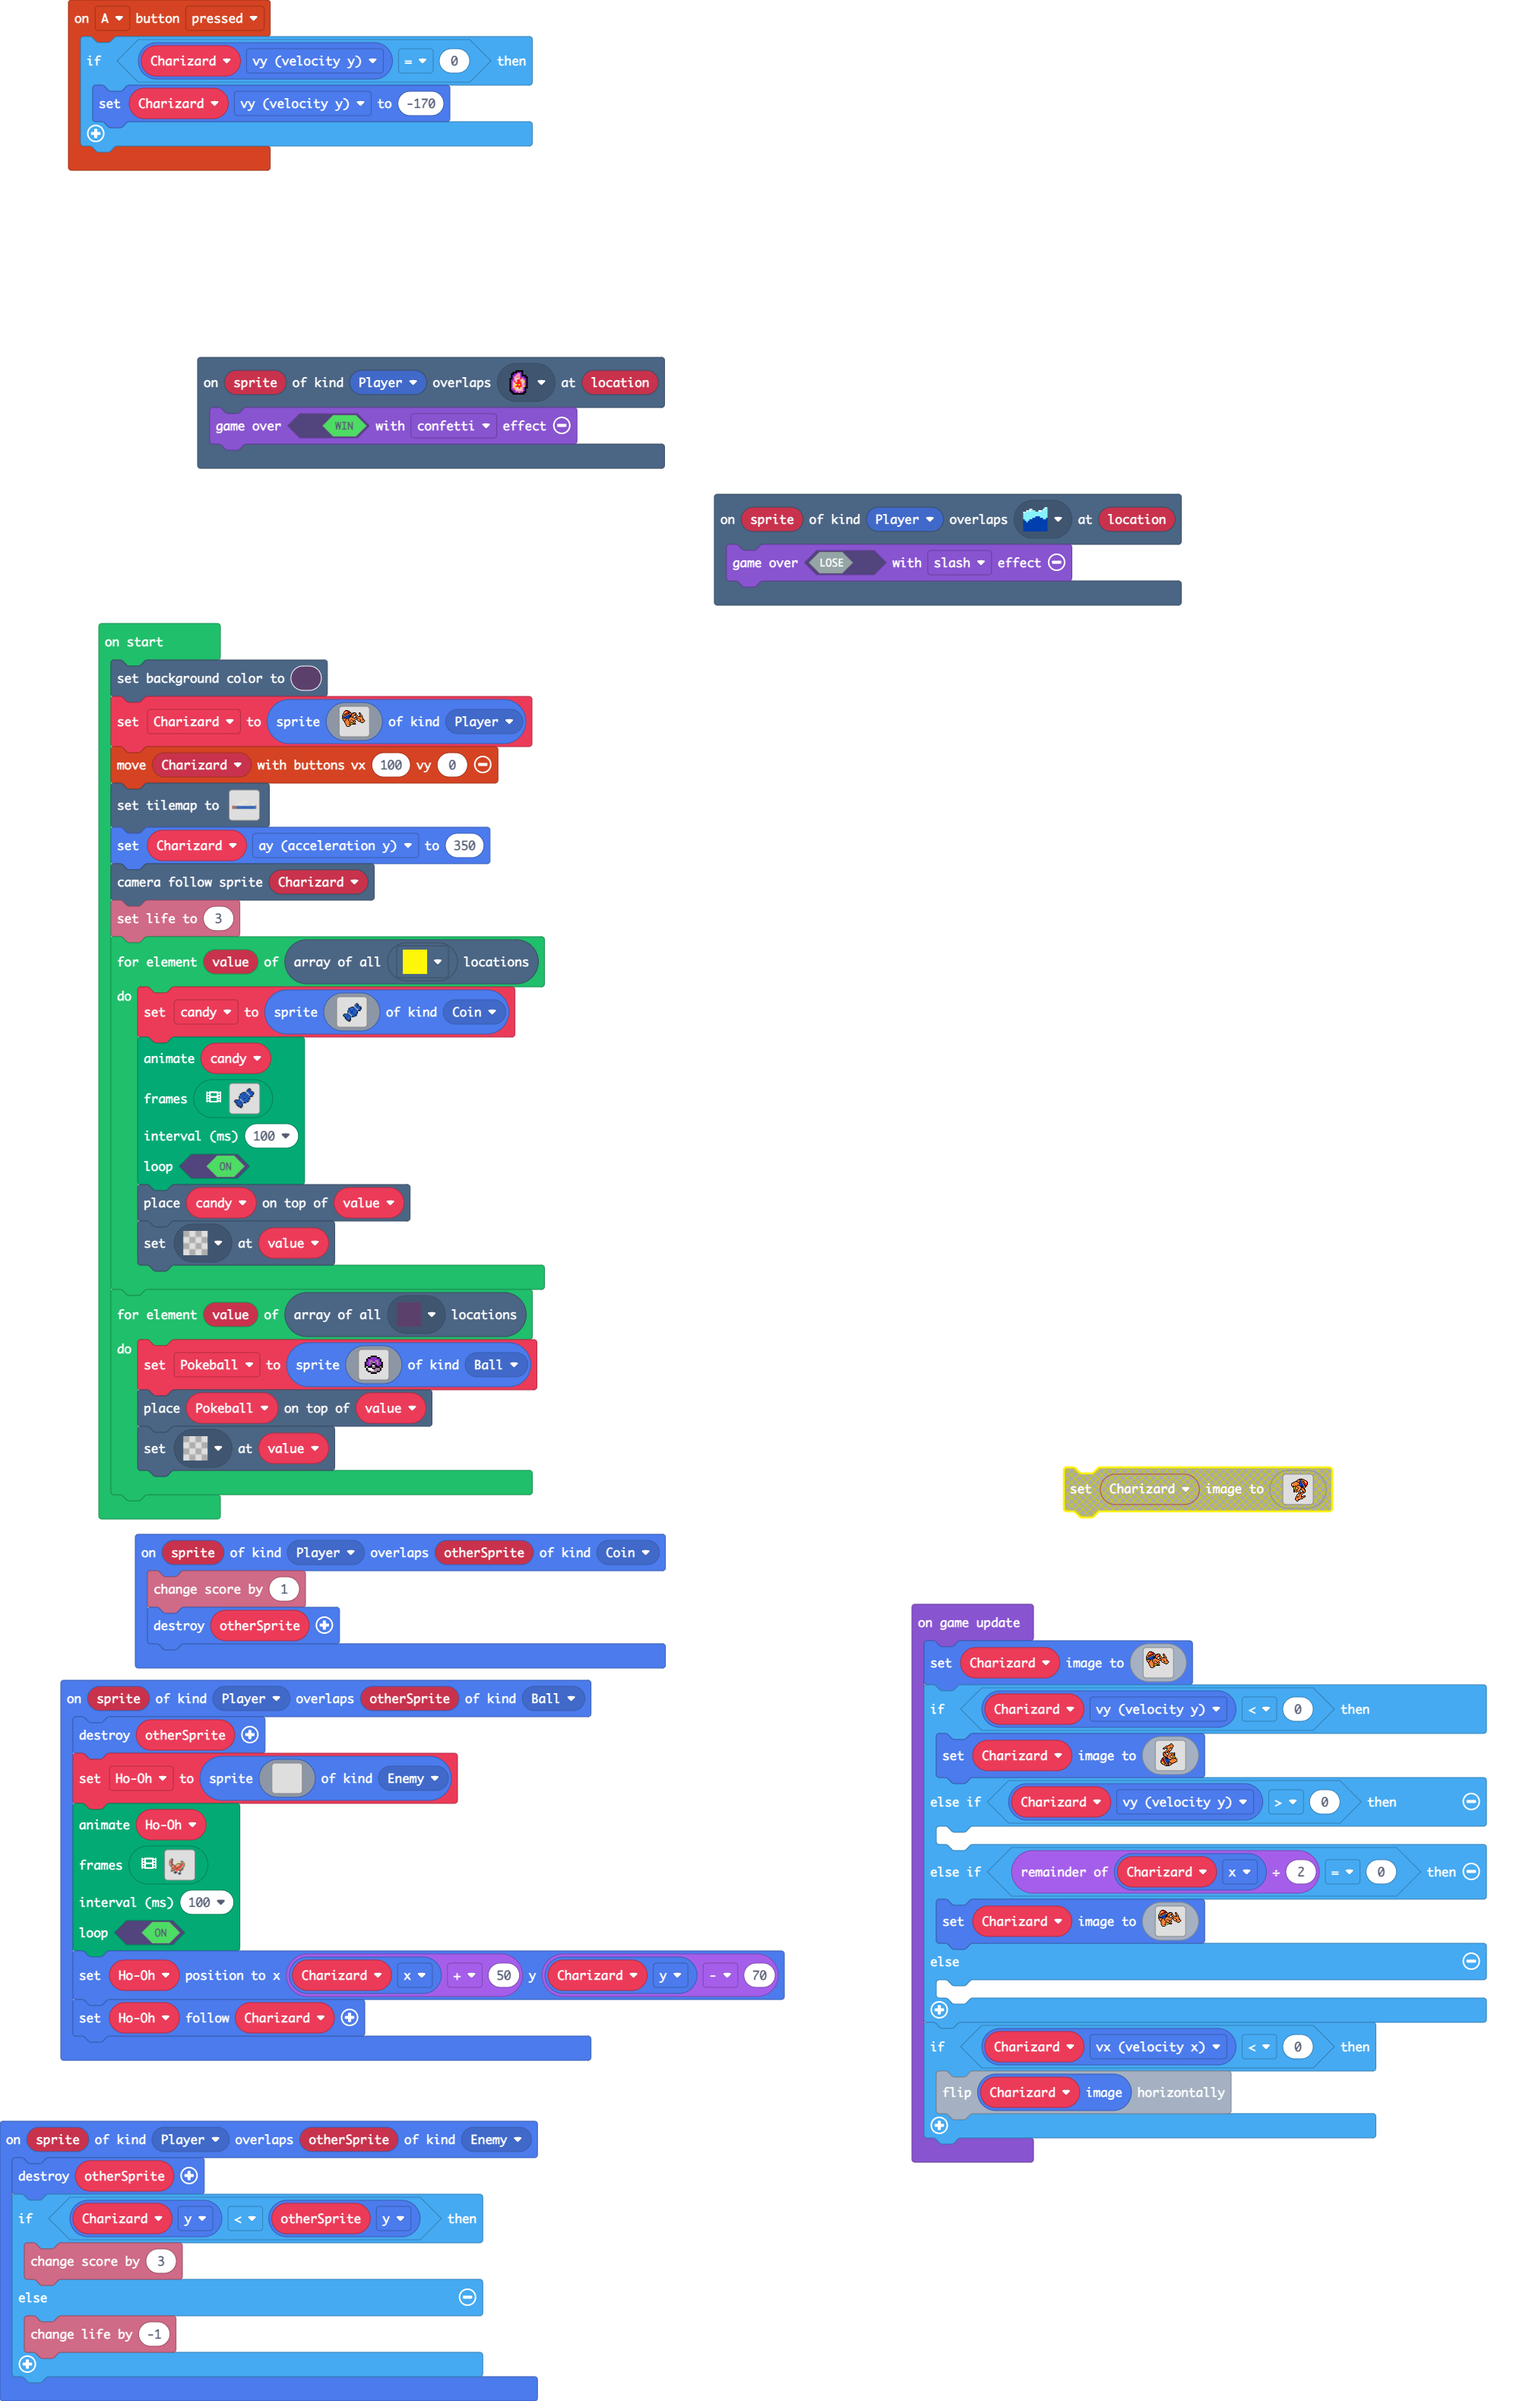
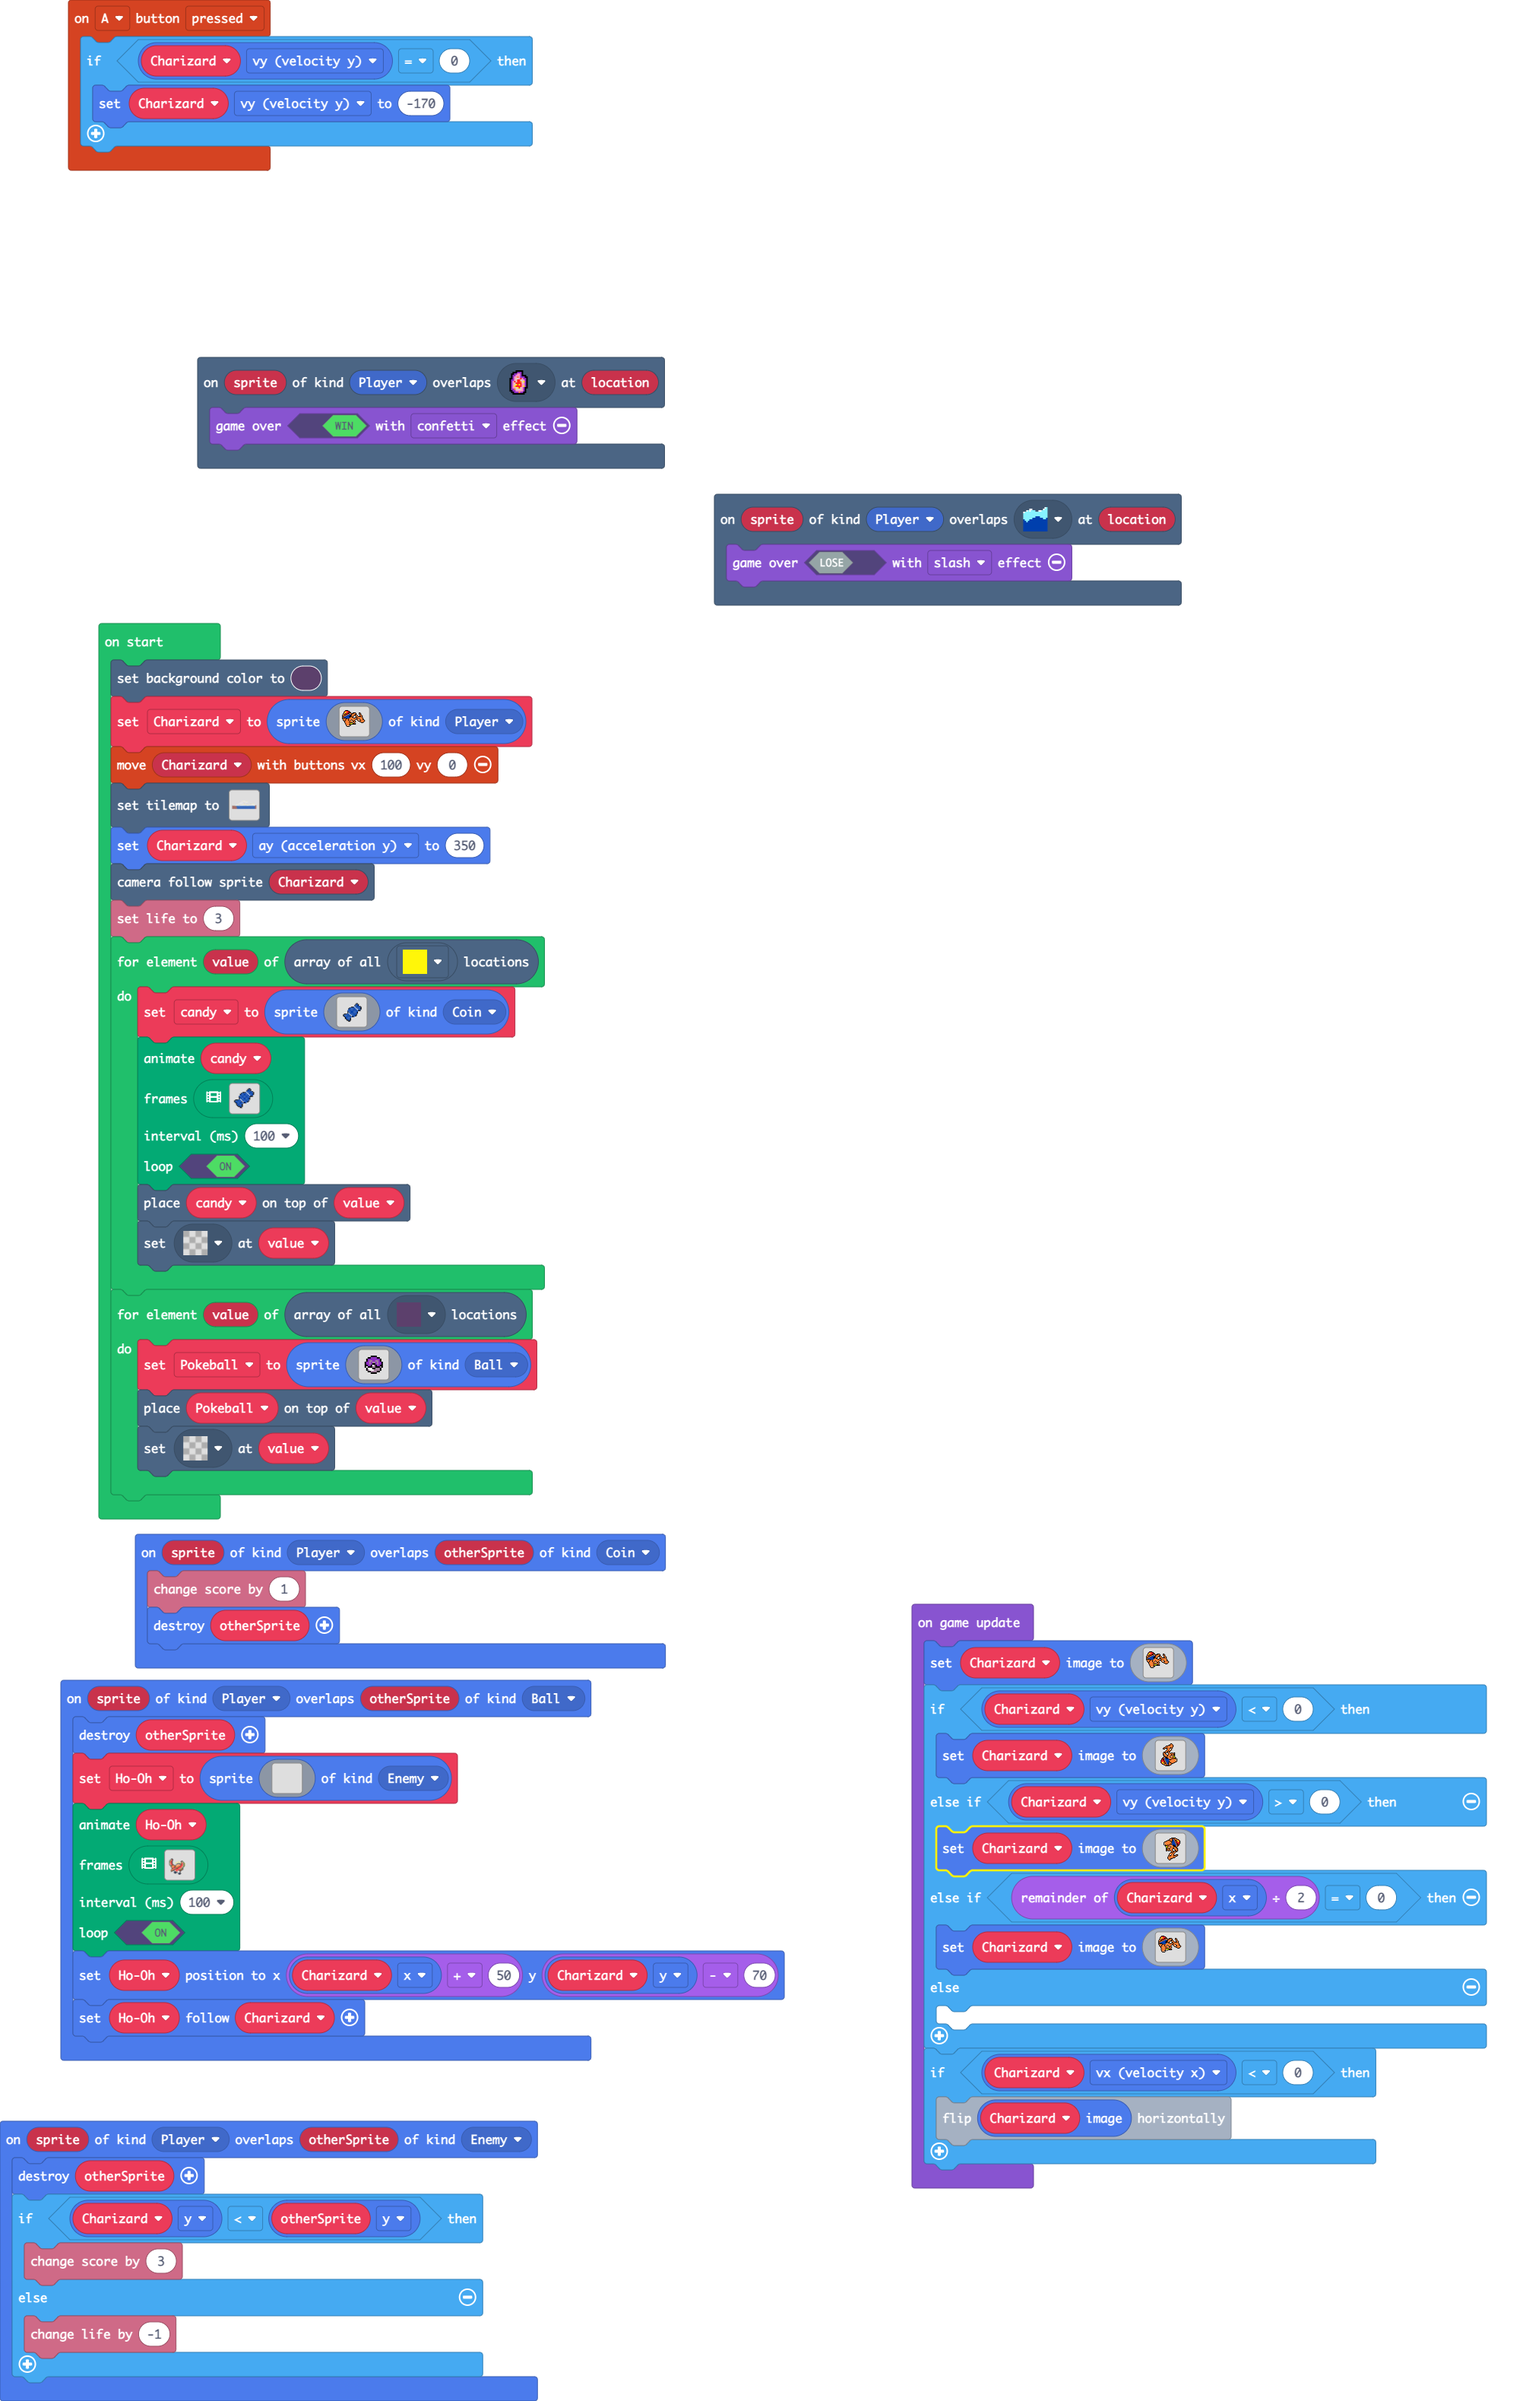
Update main.blocks, main.ts

Changed region(s): [[0.5867, 0.7448, 0.988, 0.931], [0.6793, 0.5896, 0.8645, 0.6517]]

diff --git a/main.ts b/main.ts
@@ -535,7 +535,40 @@ game.onUpdate(function () {
             ................................
             `)
     } else if (Charizard.vy > 0) {
-    	
+        Charizard.setImage(img`
+            ................................
+            ................................
+            .................ffffff.........
+            ...............ff4f4f44ff.......
+            ..............f444f84f444ff.....
+            ............fff444f884ff452f....
+            ..........ff444ff4f884f4f552f...
+            ........ff4444444f88884f2252f...
+            .......f444444444f88884f2222f...
+            .......f1444444444888884f222f...
+            .......f4444444fff888884ff2f....
+            .......f1f44f4f44488f8884f2f....
+            ........ffff4f44444fff884ff.....
+            .........f55f44f4444fff44f......
+            ..........f5f441f444f4fff.......
+            ..........f5f14f444f4444f.......
+            ..........ff4ff4444ff444ff......
+            ..........ff44f444f..f444f......
+            ..........f4f44f44f...f44f......
+            ..........ff.ff.f44f.fff4f......
+            .................f4ff44ff.......
+            ................ff4f44f.........
+            ...............f44f44f..........
+            ..............f44444f...........
+            ..............f11f44f..fff......
+            .............f4ff444fff44f......
+            .............f4f4444f44ff.......
+            ............f444444444f.........
+            ............f444444fff..........
+            ............f444fff.............
+            .............f44f...............
+            ..............ff................
+            `)
     } else if (Charizard.x % 2 == 0) {
         Charizard.setImage(img`
             ................................
